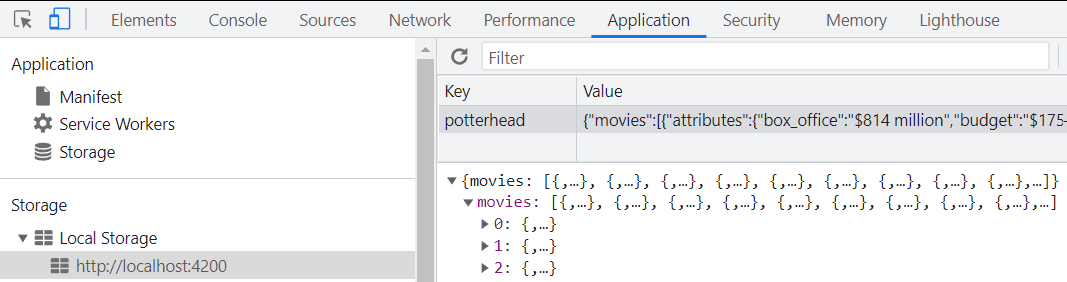
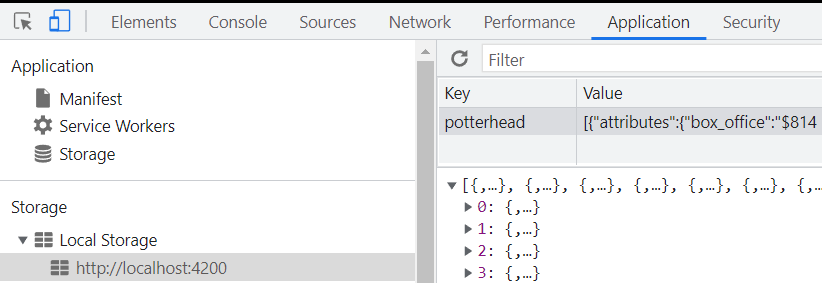
guia15

diff --git a/guias/guia15.md b/guias/guia15.md
@@ -23,7 +23,7 @@ theme: jekyll-theme-leap-day
   + Cree el servicio `service/resources`
   + Agregue Bootstrap.
   + Agregue Angular Material.
-  + Genere las rutas:
+  + En `app-routing.module.ts` cree las rutas:
   	* `"splash"` al componente `SplashComponent`
   	* `"movies"` al componente `MoviesComponent`
   	* `"movie"` al componente `MovieComponent`
@@ -52,6 +52,34 @@ theme: jekyll-theme-leap-day
 * Descargue y descomprima los recursos de [Potterhead](archivos/potterhead.zip)
 	+ Reemplace los componentes, el servicio y la interfaz descargados por los recursos correspondientes que se encuentran dentro de su proyecto en Angular. 
 * Guarde la carpeta `images` dentro de la carpeta `src/assets` de su proyecto en Angular.
+* En `app.module.ts` 
+  + Importe los módulos `HttpClientModule`,`MatCardModule`, `MatListModule`, `MatToolbarModule` y `MatIconModule`
+
+```
+  ...
+  import {HttpClientModule} from '@angular/common/http';
+  import {MatCardModule} from '@angular/material/card';
+  import {MatListModule} from '@angular/material/list';
+  import {MatToolbarModule} from '@angular/material/toolbar';
+  import {MatIconModule} from '@angular/material/icon';  
+  ...
+```
+
+  + Registre los módulos en el import
+
+```
+  imports: [
+    ...
+    HttpClientModule,
+    MatCardModule,
+    MatListModule,
+    MatToolbarModule,
+    MatIconModule
+    ...
+  ]
+```
+
+
 * Compruebe las rutas con el navegador en modo responsivo, para las rutas:
 
   + `http://localhost:4200`
@@ -68,22 +96,26 @@ theme: jekyll-theme-leap-day
 #### Local Storage
 
 * En `components/splash/splash.component.ts` 
-  + En el *ngOnInit*, reemplace el contenido del _callback_ en la suscripción del servicio.
+  + En el método *ngOnInit*, reemplace el contenido del _callback_ en la suscripción del servicio.
 
 ```
-  this.resourcesService.getData().subscribe(response => {
-    
-    let potterhead = localStorage.getItem("potterhead");
-    if(!potterhead) {
-      localStorage.setItem("potterhead", JSON.stringify(response));
-    }
+  ...
+  ngOnInit() {
+    this.resourcesService.getData().subscribe(response => {
+      
+      let potterhead = localStorage.getItem("potterhead");
+      if(!potterhead) {
+        localStorage.setItem("potterhead", JSON.stringify(response));
+      }
 
-  })
+    })
+  }
+  ...
 ```
 
-* Compruebe la ruta `http://localhost:4200/splash`
+* Acceda a la ruta `http://localhost:4200/splash`
   
-  + En el inspector del navegador, en `Application > Storage > Local Storage`, identifique la entrada **potterhead**
+  + Con el inspector del navegador (en `Application > Storage > Local Storage`), identifique la entrada **potterhead**
 
 <p align="center">
   <img src="imagenes/localstorage.png">
@@ -93,20 +125,29 @@ theme: jekyll-theme-leap-day
   + En el constructor, agregue la lectura de la entrada **potterhead**.
 
 ```
-  let potterhead = JSON.parse(localStorage.getItem("potterhead")!);
+  ...
+  constructor() {
+
+    /* Leer desde el localStorage */
+    let potterhead = JSON.parse(localStorage.getItem("potterhead")!);
       
-  if(potterhead) {
-    this.movies = potterhead as Movie[]
+    if(potterhead) {
+      this.movies = potterhead as Movie[]
+    }
+    
   }
+  ...
 ```
 
 * En `components/movies/movies.component.html`
   + Itere sobre el arreglo *movies*.
 
 ```
-<div class="col-6 col-md-2" *ngFor="let movie of movies">
   ...
-</div>
+  <div class="col-6 col-md-2" *ngFor="let movie of movies">
+    ...
+  </div>
+  ...
 ```
 
   + Para cada elemento, renderice los atributos *poster*, *slug* y *title* 
@@ -116,6 +157,7 @@ theme: jekyll-theme-leap-day
   <img src="{{movie.attributes.poster}}" ... alt="{{movie.attributes.slug}}" >
   ...
   <a routerLink="/movie">{{movie.attributes.title}}</a>
+  ...
 ```
 
 * Compruebe el resultado en el navegador para la ruta `http://localhost:4200/movies`
@@ -153,7 +195,9 @@ theme: jekyll-theme-leap-day
 
 ```
   ...
-  constructor(private route: ActivatedRoute)
+  constructor(private route: ActivatedRoute) {
+    
+  }
   ...
 ```
 
@@ -230,5 +274,5 @@ material design, componentes, servicios, it's a wrap
 * Using Route Parameters - Rangle.io : Angular Training. (2022). Retrieved 9 December 2022, from https://angular-training-guide.rangle.io/routing/routeparams
 * Working with Angular Local Storage. (2019). Retrieved 10 December 2022, from https://blog.jscrambler.com/working-with-angular-local-storage/
 * Savani, H. (2022). How to Declare Global Variable in Angular 9/8?. Retrieved 10 December 2022, from https://www.itsolutionstuff.com/post/how-to-declare-global-variable-in-angular-8example.html
-* &#39;string&#39;, A., Nys, W., & Khalil, S. (2017). Argument of type 'string | null' is not assignable to parameter of type 'string'. Type 'null' is not assignable to type 'string'. Retrieved 10 December 2022, from https://stackoverflow.com/questions/46915002/argument-of-type-string-null-is-not-assignable-to-parameter-of-type-string
+* &#39;string&#39;, A., Nys, W., & Khalil, S. (2017). Argument of type 'string  null' is not assignable to parameter of type 'string'. Type 'null' is not assignable to type 'string'. Retrieved 10 December 2022, from https://stackoverflow.com/questions/46915002/argument-of-type-string-null-is-not-assignable-to-parameter-of-type-string
 * Angular. (2022). Retrieved 12 December 2022, from https://angular.io/api/router/ActivatedRoute

diff --git a/index.md b/index.md
@@ -34,7 +34,7 @@ Este curso provee a los estudiantes del conocimiento y de la experiencia prácti
 * [Guía 12: Typescript > Bases](guias/guia12.md)
 * [Guía 13: Angular > Introducción](guias/guia13.md)
 * [Guía 14: Angular > PWA + Servicios](guias/guia14.md)
-<!--- * [Guía 15: Angular > Material Design + Rutas + Cordova](guias/guia15.md) --->
+* [Guía 15: Angular > Material Design + Rutas](guias/guia15.md)
 <!--- * [Guía 16: Express > Formularios](guias/guia16.md) --->
 <!--- * [Guía 17: Express > Partials y layouts](guias/guia17.md) --->
 <!--- * [Guía 18: Express > MVC](guias/guia18.md) --->
